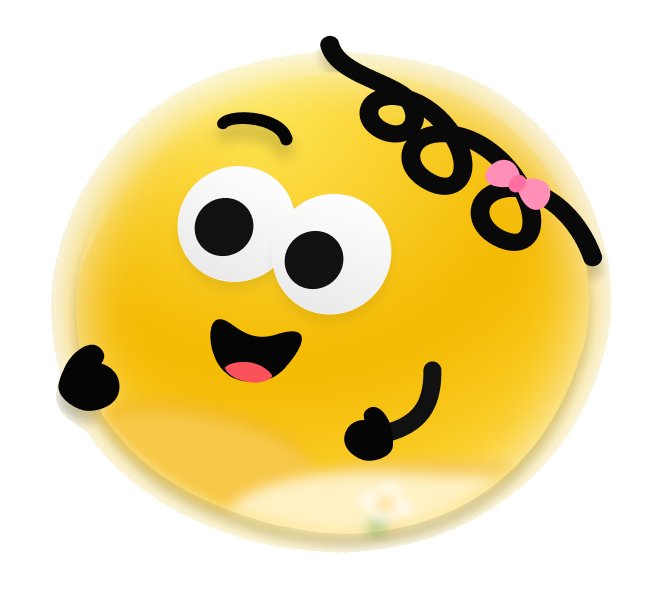
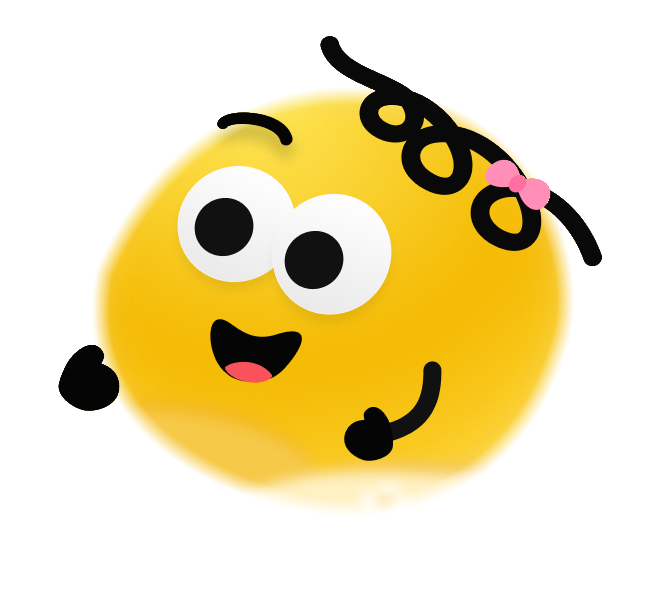
fix(web): match /landing-new hero reading cloud to Figma
- Render the cloud from its exported SVG instead of blurred divs (ADR 0001)
- Place both characters at their pixel-matched Figma positions and native
  aspect ratio, so they no longer stretch or overlap
- Restore the book's white pages lost to the background flood-fill
- Draw the excitement lines as one SVG with measured endpoints and colour
- Layer Figma's own glow and shadow vectors under trimmed character PNGs
  for the soft halos (ADR 0002)

Changed region(s): [[0.0602, 0.0899, 0.9323, 0.9285]]

diff --git a/web/components/sections/LandingHeroArt.tsx b/web/components/sections/LandingHeroArt.tsx
@@ -1,50 +1,122 @@
 import Image from "next/image";
 import { landingHero } from "@/lib/content";
 
-interface RasterPiece {
+// Union's (1360:8712) own tight layout box, in Figma px. Everything below is
+// positioned in this coordinate space, then converted to percentages so the
+// whole illustration scales fluidly with its container.
+const UNION_WIDTH = 503.172;
+const UNION_HEIGHT = 356.962;
+
+const pctX = (px: number) => `${(px / UNION_WIDTH) * 100}%`;
+const pctY = (px: number) => `${(px / UNION_HEIGHT) * 100}%`;
+
+// Characters (1360:8738) is a separate overlay on top of the Hero Card, not a
+// child of the cloud, and no frame exposes it and Union in one coordinate
+// space. This offset maps its layer coordinates into Union's box: measured by
+// pixel-matching both character PNGs (at 1/3 scale) against Figma's own render
+// of the page (1360:8561), and confirmed by ORto's body circle and Нархан's
+// symmetric export bleed landing exactly. Re-measure if either PNG is
+// re-exported.
+const CHARACTERS_OFFSET = { x: -796.33, y: -242.349 };
+const fromCharacters = (x: number, y: number) => ({ x: x + CHARACTERS_OFFSET.x, y: y + CHARACTERS_OFFSET.y });
+
+// Both character PNGs are 3x exports, so each one's box is its pixel size / 3
+// — never a free width/height pair, which would stretch the artwork.
+const EXPORT_SCALE = 3;
+const png3x = (pixelWidth: number, pixelHeight: number) => ({
+  width: pixelWidth / EXPORT_SCALE,
+  height: pixelHeight / EXPORT_SCALE,
+});
+
+interface ArtLayer {
   src: string;
-  left: string;
-  top: string;
-  width: string;
-  height: string;
+  /** Top-left corner and size in Union's box, Figma px. */
+  x: number;
+  y: number;
+  width: number;
+  height: number;
+  /** Figma's own rotate/skew, applied around `transformOrigin` (default: centre). */
+  transform?: string;
+  transformOrigin?: string;
 }
 
-// Нархан (1360:8739) and ORto with the book he's holding (1360:8797 — the
-// one AI-generated photo among these pieces lives inside this export), in
-// Figma's paint order. Positioned as a percentage of the cloud's own tight
-// layout box below (not a box sized to fit them) — like Figma itself, where
-// Characters is a separate overlay sitting on top of the Hero Card rather
-// than a flex-sized sibling of the cloud, they overflow past its right and
-// bottom edges (percentages over 100%).
+// Every layer in Figma's paint order.
 //
-// These are raster PNGs, not SVG: the export pipeline for this file bakes
-// an opaque page background into every vector export of these two nodes
-// (their glow/highlight effects need backdrop context to render), so each
-// was exported as a PNG at 3x and had that background flood-filled back out
-// to transparent (matched pixels connected to the image's own border, so
-// eyes/teeth stay intact). `unoptimized`: Next's image optimizer garbled
-// these two specific files (colours came out wrong after resizing) —
-// serving the flood-filled originals directly avoids that. Each box is
-// centred on the piece's own Figma layout box, since the export's shadow
-// bleed isn't even per side.
-const RASTER_PIECES: RasterPiece[] = [
-  { src: "/images/landing/hero-narhan.png", left: "71.282%", top: "85.391%", width: "44.054%", height: "56.122%" },
-  { src: "/images/landing/hero-orto.png", left: "46.126%", top: "83.337%", width: "58.164%", height: "69.475%" },
+// Glows and ORto's ground shadow are Figma's own exported vectors, not part of
+// the character PNGs: the PNG exports bake an opaque page background into
+// their soft, semi-transparent edges, and no pixel clean-up recovers pale
+// glows faithfully once they're sitting on the cloud instead — see
+// docs/adr/0002-character-glows-as-figma-vectors.md. Each SVG canvas includes
+// its blur bleed, so x/y/size are that canvas (node box grown by Figma's
+// exported insets), not the node's own box.
+//
+// The character PNGs (Нархан 1360:8739; ORto with the book, both characters'
+// feet and the one AI-generated photo, 1360:8797) are 3x exports taken over a
+// flat rgb(250,252,254) background, then cleaned up in steps that must be
+// repeated on re-export:
+//   1. Flood-fill the background to alpha 0 from the image border (RGB kept),
+//      so eyes/teeth enclosed by the body stay intact.
+//   2. That fill leaks into the book's near-white pages: make the warm
+//      (R - B >= 4) pixels in the book's top edge opaque again.
+//   3. Cut away each PNG's baked glow so only the vector glow underneath
+//      shows: ORto at his body circle (1360:8800); Нархан inside her
+//      unblurred body outline (Ellipse 12, 1360:8742, with its rotate/skew),
+//      far enough in to clear the background baked into her blurred edge.
+//      Dark ink (hair, hands) and the pink bow outside those outlines stay.
+// `unoptimized`: Next's image optimizer garbled these PNGs (colours came out
+// wrong after resizing) — serving the cleaned originals directly avoids that.
+const ART_LAYERS: ArtLayer[] = [
+  // The cloud (1360:8712 "Union") is a boolean union of 4 overlapping ellipses
+  // with a soft mint-to-periwinkle gradient, drop shadow and inner highlight —
+  // an illustration, not simple geometry, so it's the exported SVG rather than
+  // CloudShape.tsx's flat-colour blur blob (docs/adr/0001). Its canvas bleeds
+  // 28px / 16px past Union's box for the shadow.
+  { src: "/images/landing/hero-cloud.svg", x: -28, y: -16, width: 559.172, height: 412.962 },
+  // Нархан's blurred body fill (Ellipse 13, 1360:8743) — her soft edge and top haze.
+  {
+    src: "/images/landing/hero-narhan-glow.svg",
+    ...fromCharacters(1000.99, 347.297),
+    width: 208.455,
+    height: 194.254,
+    transform: "rotate(14.56deg) skewX(-3.33deg)",
+  },
+  { src: "/images/landing/hero-narhan.png", x: 198, y: 101.981, ...png3x(665, 601) },
+  // ORto's ground shadow (Ellipse 40, 1360:8799).
+  { src: "/images/landing/hero-orto-shadow.svg", ...fromCharacters(898.326, 492.169), width: 158.101, height: 69.8305 },
+  // ORto's pink/lavender halo (bg_glow, 1435:8876), rotated 1° around its node box's centre.
+  {
+    src: "/images/landing/hero-orto-glow.svg",
+    ...fromCharacters(849.399, 333.356),
+    width: 242.058,
+    height: 247.914,
+    transform: "rotate(1deg)",
+    transformOrigin: "50.1% 50.13%",
+  },
+  { src: "/images/landing/hero-orto.png", x: 53, y: 90.981, ...png3x(878, 744) },
 ];
 
-// The cloud (node 1360:8712 "Union") is a boolean union of 4 overlapping
-// ellipses with a soft mint-to-periwinkle gradient and heavy blur — the same
-// export problem hits it (and unlike the characters, its own fill is too
-// close to the baked backdrop color to flood-fill back out). Reproduced as
-// CSS instead, following CloudShape.tsx's pattern (flat-colour blurred
-// blobs, not a gradient fill, so the blur doesn't double up on a fade): two
-// mint lobes (1a/1b) and two periwinkle lobes (1c), sampled from the design,
-// positioned as a percentage of Union's own 503.172x356.962 layout box.
-const CLOUD_LOBES = [
-  { left: "0%", top: "26.883%", width: "59.423%", height: "73.117%", color: "#d8f1ef" },
-  { left: "14.905%", top: "0%", width: "47.101%", height: "59.670%", color: "#dcf4ee" },
-  { left: "41.934%", top: "40.184%", width: "58.066%", height: "59.673%", color: "#d3defb" },
-  { left: "55.172%", top: "6.161%", width: "43.502%", height: "73.173%", color: "#d3defb" },
+// Excitement lines above each head (2 by ORto, 3 by Нархан). Their source
+// node isn't reachable through this file's Figma access, so each stroke's
+// endpoints, width and colour were measured from Figma's render of the page
+// (1360:8561) — Union-box coordinates, Figma px, drawn with round caps.
+const EXCITEMENT_LINE_COLOR = "#f7bb19";
+const EXCITEMENT_LINE_WIDTH = 3.4;
+
+interface ExcitementLine {
+  x1: number;
+  y1: number;
+  x2: number;
+  y2: number;
+}
+
+const EXCITEMENT_LINES: ExcitementLine[] = [
+  // ORto
+  { x1: 64.4, y1: 123.8, x2: 78.6, y2: 138.2 },
+  { x1: 55.9, y1: 142.1, x2: 71.9, y2: 148.4 },
+  // Нархан
+  { x1: 389.2, y1: 108, x2: 388, y2: 119 },
+  { x1: 404, y1: 117.1, x2: 395.9, y2: 123.9 },
+  { x1: 411, y1: 129.9, x2: 400.8, y2: 132 },
 ];
 
 interface LandingHeroArtProps {
@@ -58,26 +130,42 @@ interface LandingHeroArtProps {
  * the characters overflow past it, same as in Figma. `role="img"` gives
  * assistive tech one accessible name for the whole illustration; every
  * layered piece inside is decorative. This is the hero's largest image and
- * renders above the fold, so both raster pieces load with `priority`.
+ * renders above the fold, so every layer loads with `priority`.
  */
 export default function LandingHeroArt({ className }: LandingHeroArtProps) {
   return (
     <div role="img" aria-label={landingHero.artLabel} className={className}>
-      <div className="relative aspect-[503.172/356.962] size-full">
-        {CLOUD_LOBES.map((lobe, i) => (
+      <div className="pointer-events-none relative aspect-[503.172/356.962] size-full">
+        {ART_LAYERS.map((layer) => (
           <div
-            key={i}
-            aria-hidden="true"
-            className="absolute rounded-full"
-            style={{ left: lobe.left, top: lobe.top, width: lobe.width, height: lobe.height, backgroundColor: lobe.color, filter: "blur(22px)" }}
-          />
-        ))}
-
-        {RASTER_PIECES.map((piece) => (
-          <div key={piece.src} className="absolute" style={{ left: piece.left, top: piece.top, width: piece.width, height: piece.height }}>
-            <Image src={piece.src} alt="" aria-hidden="true" fill unoptimized priority />
+            key={layer.src}
+            className="absolute"
+            style={{
+              left: pctX(layer.x),
+              top: pctY(layer.y),
+              width: pctX(layer.width),
+              height: pctY(layer.height),
+              transform: layer.transform,
+              transformOrigin: layer.transformOrigin,
+            }}
+          >
+            <Image src={layer.src} alt="" aria-hidden="true" fill unoptimized priority />
           </div>
         ))}
+
+        <svg
+          aria-hidden="true"
+          className="absolute inset-0 size-full overflow-visible"
+          viewBox={`0 0 ${UNION_WIDTH} ${UNION_HEIGHT}`}
+          fill="none"
+          stroke={EXCITEMENT_LINE_COLOR}
+          strokeWidth={EXCITEMENT_LINE_WIDTH}
+          strokeLinecap="round"
+        >
+          {EXCITEMENT_LINES.map((line) => (
+            <line key={`${line.x1},${line.y1}`} {...line} />
+          ))}
+        </svg>
       </div>
     </div>
   );

diff --git a/web/docs/adr/0001-hero-cloud-as-exported-svg.md b/web/docs/adr/0001-hero-cloud-as-exported-svg.md
@@ -1,0 +1,21 @@
+# Hero cloud reproduced as an exported SVG, not a CloudShape.tsx blur-blob
+
+The landing hero's cloud (Figma node `1360:8712`, "Union") is a boolean union
+of 4 ellipses with a diagonal gradient, drop shadow, and inner highlight —
+not the single flat-fill, CSS-blurred ellipse that `CloudShape.tsx` and every
+other cloud on this site is built from. The original implementation tried to
+fit it into that same pattern (4 flat-colour `div`s, each blurred), matching
+the sky clouds' established technique. That produced a diffuse, edgeless
+colour smear instead of a cloud silhouette: `CloudShape.tsx`'s technique only
+holds up for a shape that's opaque before the blur touches its edge — this
+shape's boundary *is* the visual, so blurring it away destroyed the one thing
+that made it read as a cloud (and, downstream, made the characters sitting
+"on" it look like they were floating outside it instead).
+
+Decided to render this cloud from its actual exported SVG asset
+(`public/images/landing/hero-cloud.svg`) instead: it's a genuine 4-lobe
+vector illustration with a real gradient and layered shadows, not simple
+geometry, so it falls under the "SVG for illustrations" tier of the asset
+strategy rather than the "CSS for simple geometry" tier `CloudShape.tsx`
+occupies. Anyone reaching for `CloudShape.tsx`'s pattern here again will hit
+the same edgeless-smear failure — this is deliberate, not an oversight.

diff --git a/web/docs/adr/0002-character-glows-as-figma-vectors.md b/web/docs/adr/0002-character-glows-as-figma-vectors.md
@@ -1,0 +1,19 @@
+# Hero character glows are Figma's exported vectors, layered under trimmed PNGs
+
+The hero's two characters are raster PNGs, because Figma bakes an opaque page
+background into every export of those nodes. Their soft edges, ORto's
+pink/lavender halo (`bg_glow`, `1435:8876`) and Нархан's blurred body fill
+(Ellipse 13, `1360:8743`), plus ORto's ground shadow (Ellipse 40, `1360:8799`),
+don't survive that. Removing the background leaves a hard ring, and trying to
+recover real transparency from the pixels (a minimum-alpha unmatte) gets the
+right result over the flat background but makes the pale glows almost vanish
+once they sit on the cloud. There isn't enough information in one flattened
+export to recover a pale, semi-transparent glow.
+
+Decided to render those three soft layers from Figma's own exported SVGs
+(`public/images/landing/hero-*-glow.svg`, `hero-orto-shadow.svg`), in Figma's
+paint order with Figma's own rotate/skew, and to cut each PNG's baked glow away
+so only the vector glow shows: ORto's at his body circle, Нархан's just inside
+her unblurred body outline (Ellipse 12). If the characters are re-exported, don't
+fold the glows back into the PNGs, and don't try to clean them up in the pixels
+again. Re-export the PNGs and redo the trim against those outlines instead.
